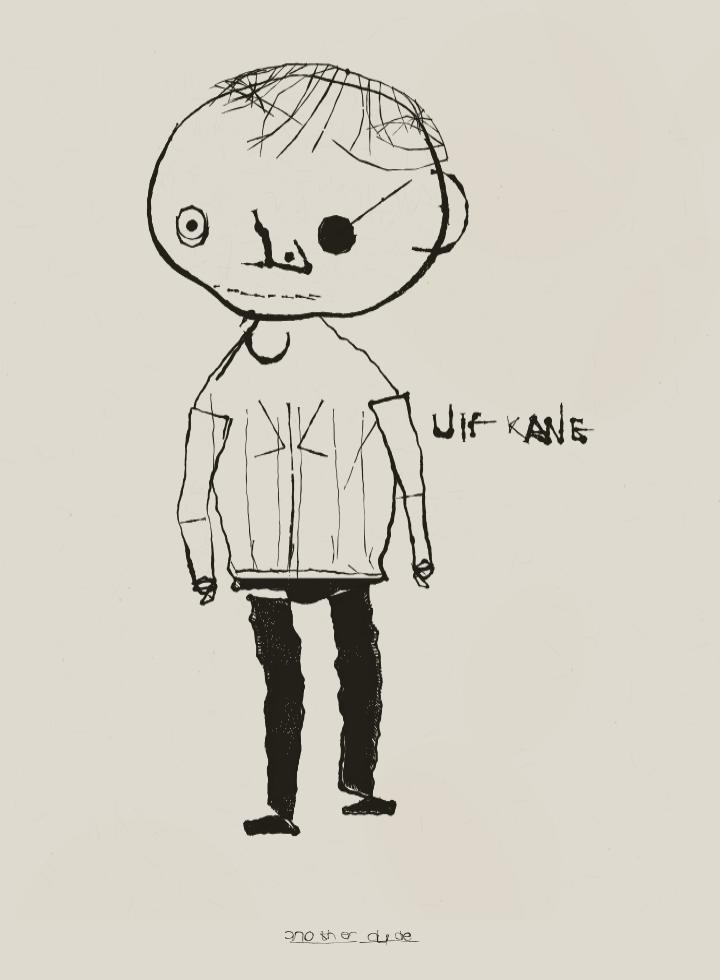
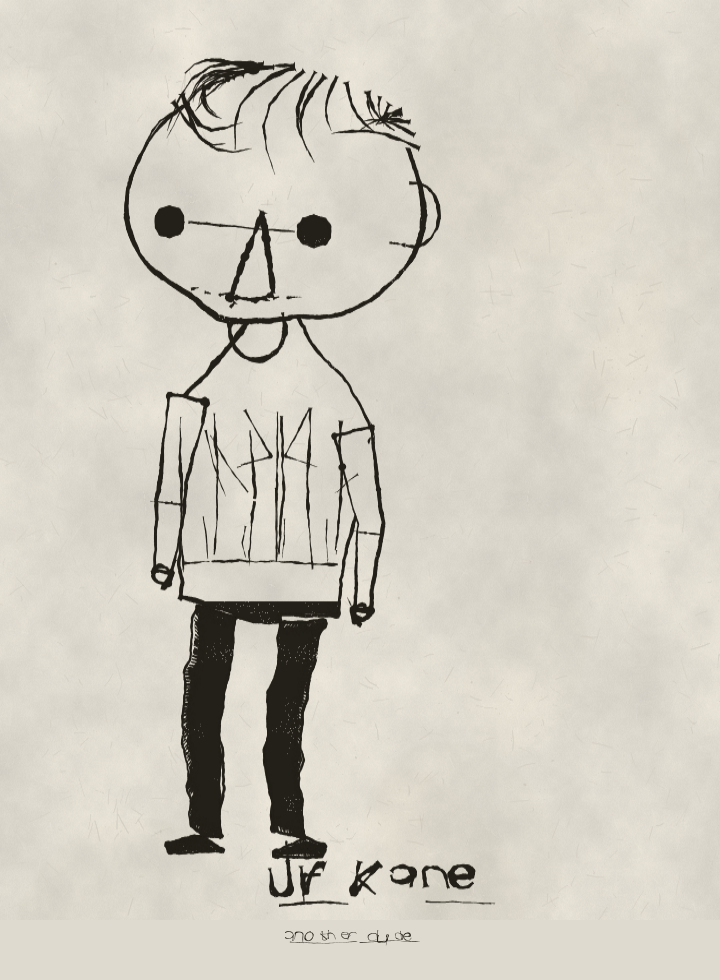
Gauntlet: hair edge as silhouette, nose length, eye variety, real paper
Four fixes the last critic round converged on.

- Where hair sits, the head line stops. A solid cap hid the cranium under
  its own fill, but hair laid as strokes has no fill, so the closed skull
  loop showed straight through and the strokes read as a fringe hung on a
  bald egg. The mass is now wiped to paper and re-fibred before the
  strokes go down, so the hair's outer edge is the silhouette.
- The nose bottoms out anywhere from a third to three quarters down the
  face, and every style reports where it ended so the mouth hangs off it.
  A fixed mouth height under a varying nose is what made forty different
  noses read as one face.
- The ring-with-dot eye had become a stamp of its own. Added shut eyes,
  squints pinched between two lids, heavy half-lids cutting the top off
  the iris, and bare pupils with no lid drawn; ring diameter now varies
  twice as widely and the two eyes disagree more often.
- Cap volume, reach and lean vary per seed on top of the style, so the
  same wedge does not appear at forty scales and rotations. Wrap is
  clamped: above ~1.05 the hairline goes round the back of the skull and
  the mass swallows the face.
- The paper was a flat digital field. Two octaves of slow mottle plus a
  fine tooth, measured against the reference: sd 3.84 against his 3.79.

Claude-Session: https://claude.ai/code/session_01RJWY9ufwnD6fjwW6ve4one

Changed region(s): [[0.1528, 0.0612, 0.6722, 0.9184], [0.3361, 0.7653, 0.4583, 0.949], [0.7028, 0.4286, 0.825, 0.4592]]

diff --git a/dude.js b/dude.js
@@ -399,11 +399,11 @@
     c.closePath();
     c.clip();
     // match the density of the paper pass exactly, or the patch reads darker
-    const n = Math.min(900, Math.round(area / 675));
+    const n = Math.min(1500, Math.round(area / 405));
     for (let i = 0; i < n; i++) {
       const a = rng.f(0, Math.PI * 2);
       const len = rng.f(3, 20);
-      c.strokeStyle = rng.chance(0.55) ? "rgba(74,60,40,0.03)" : "rgba(255,253,246,0.05)";
+      c.strokeStyle = rng.chance(0.55) ? "rgba(74,60,40,0.075)" : "rgba(255,253,246,0.11)";
       c.lineWidth = rng.f(0.4, 1.0);
       const x = rng.f(x0, x1);
       const y = rng.f(y0, y1);
@@ -413,7 +413,7 @@
       c.stroke();
     }
     for (let i = 0; i < Math.round(area / 145); i++) {
-      c.fillStyle = rng.chance(0.6) ? "rgba(48,36,22,0.032)" : "rgba(255,255,255,0.034)";
+      c.fillStyle = rng.chance(0.6) ? "rgba(48,36,22,0.06)" : "rgba(255,255,255,0.07)";
       c.fillRect(rng.f(x0, x1), rng.f(y0, y1), rng.f(0.3, 1.2), rng.f(0.25, 0.8));
     }
     c.restore();
@@ -515,11 +515,11 @@
       c.ellipse(rng.f(-40, w + 40), rng.f(-40, h + 40), rng.f(40, 190), rng.f(28, 130), rng.f(0, 6), 0, Math.PI * 2);
       c.fill();
     }
-    for (let i = 0; i < 900; i++) {
+    for (let i = 0; i < 1500; i++) {
       const a = rng.f(0, Math.PI * 2);
       const len = rng.f(3, 22);
       const dark = rng.chance(0.55);
-      c.strokeStyle = dark ? "rgba(74,60,40,0.03)" : "rgba(255,253,246,0.05)";
+      c.strokeStyle = dark ? "rgba(74,60,40,0.075)" : "rgba(255,253,246,0.11)";
       c.lineWidth = rng.f(0.4, 1.0);
       const x = rng.f(0, w);
       const y = rng.f(0, h);
@@ -534,7 +534,7 @@
       c.stroke();
     }
     for (let i = 0; i < 4200; i++) {
-      c.fillStyle = rng.chance(0.6) ? "rgba(48,36,22,0.032)" : "rgba(255,255,255,0.034)";
+      c.fillStyle = rng.chance(0.6) ? "rgba(48,36,22,0.06)" : "rgba(255,255,255,0.07)";
       c.fillRect(rng.f(0, w), rng.f(0, h), rng.f(0.3, 1.2), rng.f(0.25, 0.8));
     }
     for (let i = 0; i < 40; i++) {
@@ -567,12 +567,17 @@
         n = Math.imul(n ^ (n >>> 15), 3266489917);
         const u = ((n ^ (n >>> 13)) >>> 0) / 4294967296;
         if (lum > 214) {
-          if (u < 0.035) {
-            const k = 0.03 + u * 0.4;
-            d[p] = r - (r - 48) * k * 0.12;
-            d[p + 1] = g - (g - 36) * k * 0.12;
-            d[p + 2] = b - (b - 22) * k * 0.12;
-          }
+          // Paper is never one value. Two octaves of slow mottle plus a fine
+          // tooth: without this the ground reads as a flat digital field, and
+          // that alone gives the sheet away next to a photographed one.
+          const m =
+            (valueNoise(x * 0.011, y * 0.011, 9001) - 0.5) * 2 +
+            (valueNoise(x * 0.037, y * 0.037, 9109) - 0.5) * 1.1 +
+            (valueNoise(x * 0.13, y * 0.13, 9227) - 0.5) * 0.5;
+          const v = m * 9.2 + (u - 0.5) * 5.2;
+          d[p] = Math.max(0, Math.min(255, r + v));
+          d[p + 1] = Math.max(0, Math.min(255, g + v * 0.94));
+          d[p + 2] = Math.max(0, Math.min(255, b + v * 0.82));
           continue;
         }
         // paper tooth: the sheet is not flat, so the nib misses a little of it
@@ -1001,6 +1006,15 @@
   }
 
   function hairMass(skull, hull, rng, opt = {}) {
+    // per-seed volume and reach, on top of whatever the style asked for, so
+    // the same cap does not come out at forty scales and rotations
+    opt = Object.assign({}, opt, {
+      puff: (opt.puff ?? 0.05) * rng.f(0.6, 1.45),
+      // u spans (t-0.5)*PI*wrap*1.9, so wrap above ~1.05 sends the hairline
+      // round the back of the skull and the mass swallows the whole face
+      wrap: Math.min(1.05, (opt.wrap ?? 1.02) * rng.f(0.84, 1.08)),
+      sideBias: (opt.sideBias ?? 0) + rng.f(-0.1, 0.1),
+    });
     const front = hairline(skull, rng, opt);
     if (front.length < 3) return null;
     const a = front[0];
@@ -1089,6 +1103,14 @@
     if (!h) return;
     const { front, top } = h;
     const k = h._s / 100;
+    // A solid cap hides the cranium under its own fill. Hair laid as strokes
+    // has no fill, so the closed skull loop shows straight through it and the
+    // strokes read as a fringe hung on a bald egg. Take the head line out
+    // first: where hair sits, the hair's outer edge IS the silhouette.
+    if (opt.wipe) {
+      inkFill(c, rng, h.mass, PAPER, 1, 1.4 * k);
+      refibre(c, rng, h.mass);
+    }
     const lines = opt.lines ?? 30;
     const bow = opt.bow ?? 0.2;
     // one parting, and everything sweeps away from it
@@ -1172,7 +1194,9 @@
     if (style === "buzz") {
       const h = mk({ lineY: -0.5, recede: 0.05, puff: 0.03, wob: 0.03 });
       if (h) {
-        inkFill(c, rng, h.mass, color, 0.72, s * 0.014);
+        inkFill(c, rng, h.mass, PAPER, 1, s * 0.014);
+        refibre(c, rng, h.mass);
+        inkFill(c, rng, h.mass, color, 0.62, s * 0.014);
         inkPoly(c, rng, h.front, { w: s * 0.019, dry: 0.6 });
         inkPoly(c, rng, h.top, { w: s * 0.014, dry: 1.4 });
       }
@@ -1247,13 +1271,13 @@
     if (style === "thatch") {
       // no black at all: hair as laid strokes over an open crown
       const h = mk({ lineY: -0.46, recede: rng.f(-0.04, 0.14), sideBias: rng.f(-0.2, 0.2), puff: 0.05, wob: 0.05 });
-      if (h) combMass(c, rng, h, { lines: rng.i(30, 54), bow: rng.f(0.06, 0.3) });
+      if (h) combMass(c, rng, h, { lines: rng.i(30, 54), bow: rng.f(0.06, 0.3), wipe: true });
       return;
     }
 
     if (style === "comb") {
       const h = mk({ lineY: -0.5, recede: 0.13, sideBias: rng.sign() * 0.14, puff: 0.065, wob: 0.04 });
-      if (h) combMass(c, rng, h, { lines: rng.i(30, 48), bow: rng.f(0.1, 0.34) });
+      if (h) combMass(c, rng, h, { lines: rng.i(30, 48), bow: rng.f(0.1, 0.34), wipe: true });
       return;
     }
 
@@ -1366,8 +1390,8 @@
     const fy = skull.faceY || 0;
     const gap = skull.eyeGap ?? 0.36;
     // a pair of eyes is never a pair: different sizes, different heights
-    const kL = rng.f(0.82, 1.0);
-    const kR = rng.f(0.85, 1.0) * (rng.chance(0.28) ? 1.16 : 1);
+    const kL = rng.f(0.62, 1.3);
+    const kR = rng.f(0.62, 1.3) * (rng.chance(0.28) ? 1.2 : 1);
     const L = pin(skull, { x: -gap, y: -0.12 + fy + rng.f(-0.05, 0.03), z: 0.88 });
     const R = pin(skull, { x: gap, y: -0.12 + fy + rng.f(-0.03, 0.05), z: 0.88 });
     const showL = L.z > 0.02;
@@ -1391,6 +1415,28 @@
           // a lid cutting the top of the iris
           inkArc(c, rng, x, y - ry * k * 0.25, rx * k * 0.9 * sq, Math.PI + 0.35, -0.35, s * 0.016);
         }
+      } else if (kind === "closed") {
+        // shut: one curve and a lash or two
+        inkArc(c, rng, x, y, rx * k * 0.9 * sq, Math.PI + rng.f(0.15, 0.45), rng.f(-0.45, -0.15), s * 0.019);
+        if (rng.chance(0.5)) inkLine(c, rng, x - rx * k * 0.5, y + s * 0.02, x - rx * k * 0.75, y + s * 0.05, s * 0.012);
+      } else if (kind === "squint") {
+        // pinched between two lids, no ring at all
+        inkArc(c, rng, x, y + ry * k * 0.5, rx * k * sq, Math.PI + 0.4, -0.4, s * 0.02);
+        inkArc(c, rng, x, y - ry * k * 0.5, rx * k * sq, 0.45, Math.PI - 0.45, s * 0.017);
+        inkCirc(c, rng, x + gz * rx * k * 0.3 * sq, y, s * rng.f(0.022, 0.036) * k, s * 0.012, true);
+      } else if (kind === "half") {
+        // a heavy lid cutting the top third off the eye
+        almond(c, rng, p, rx * k, ry * k, false);
+        inkCirc(c, rng, x + gz * rx * k * 0.4 * sq, y + ry * k * 0.2, s * 0.04 * k, s * 0.013, true);
+        inkPoly(c, rng, [
+          { x: x - rx * k * 1.05 * sq, y: y - ry * k * 0.5 },
+          { x: x, y: y - ry * k * (0.95 + rng.f(-0.2, 0.2)) },
+          { x: x + rx * k * 1.05 * sq, y: y - ry * k * 0.45 },
+        ], { w: s * rng.f(0.022, 0.032), dry: 0.35 });
+      } else if (kind === "bare") {
+        // no lid drawn at all: a pupil sitting on the face
+        inkCirc(c, rng, x, y, s * rng.f(0.03, 0.055) * k, s * 0.016, true);
+        if (rng.chance(0.6)) inkArc(c, rng, x, y - ry * k * 0.4, rx * k * 0.8 * sq, Math.PI + 0.5, -0.5, s * 0.016);
       } else if (kind === "x") {
         const r = s * 0.1;
         inkLine(c, rng, x - r * sq, y - r, x + r * sq, y + r, s * 0.017);
@@ -1439,10 +1485,10 @@
       return;
     }
 
-    const kinds = ["dot", "open", "x", "slit", "angry"];
+    const kinds = ["open", "open", "half", "half", "squint", "squint", "closed", "bare", "bare", "dot", "x", "slit", "angry"];
     const k = type === "mix" ? rng.pick(kinds) : type;
     // one eye is occasionally a different animal from the other
-    const k2 = rng.chance(0.16) ? rng.pick(kinds) : k;
+    const k2 = rng.chance(0.3) ? rng.pick(kinds) : k;
     if (showL) eye(L, k, kL);
     if (showR) eye(R, k2, kR);
 
@@ -1510,7 +1556,7 @@
     ax = tx;
     ay = ty;
     const off = rng.f(-0.1, 0.03) * s * lean - s * rng.f(0.02, 0.09) * lean;
-    const drop = faceLen * rng.f(0.4, 0.62);
+    const drop = faceLen * rng.f(0.34, 0.78);
 
     const A = (t, lat) => {
       const px = -ay;
@@ -1533,7 +1579,7 @@
         inkPoly(c, rng, [wL, A(drop * 1.02, rng.f(-3, 3)), wR], { w: w * rng.f(0.6, 0.9), dry: 0.5 });
       }
       if (rng.chance(0.4)) inkCirc(c, rng, wR.x, wR.y, s * 0.02, w * 0.45, true);
-      return;
+      return { ax, ay, browP, base: drop };
     }
 
     if (style === "blob") {
@@ -1543,14 +1589,14 @@
       inkCirc(c, rng, t.x - s * 0.06 * lean, t.y + s * 0.03, s * rng.f(0.018, 0.03), w * 0.5, true);
       if (rng.chance(0.7)) inkCirc(c, rng, t.x + s * 0.07 * lean, t.y + s * 0.02, s * rng.f(0.015, 0.026), w * 0.45, true);
       if (rng.chance(0.5)) inkPoly(c, rng, [A(0, rng.f(-3, 3)), A(drop * 0.45, rng.f(-4, 4))], { w: w * 0.5, dry: 0.9 });
-      return;
+      return { ax, ay, browP, base: drop };
     }
 
     if (style === "button") {
       inkPoly(c, rng, [A(0, 0), A(drop * 0.55, rng.f(-2, 3))], { w: w * 0.75, dry: 0.6 });
       const t = A(drop, 0);
       inkCirc(c, rng, t.x, t.y, s * 0.085, w * 0.8);
-      return;
+      return { ax, ay, browP, base: drop + s * 0.085 };
     }
 
     // The long one: brow to tip in one run, but it BREAKS direction once at
@@ -1587,13 +1633,30 @@
       const far = A(drop - s * 0.008, bend - s * 0.1 * lean);
       inkCirc(c, rng, far.x, far.y, s * rng.f(0.012, 0.022), w * 0.4, true);
     }
+    return { ax, ay, browP, base: drop + hookDrop };
   }
 
-  function drawMouth(c, rng, skull, style) {
+  function drawMouth(c, rng, skull, style, nose) {
     const s = skull.s;
     const fy = (skull.faceY || 0) * 0.5;
-    const m = pin(skull, { x: rng.f(-0.06, 0.06) + Math.sin(skull.yaw) * 0.08, y: rng.f(0.54, 0.68) + fy, z: 0.78 });
-    if (m.z < -0.05) return;
+    let m;
+    if (nose) {
+      // A mouth sits under the nose it belongs to. Parking it at a fixed
+      // height while the nose length varies is what makes forty different
+      // noses read as one face.
+      const gap = s * rng.f(0.16, 0.42);
+      const off = s * rng.f(-0.09, 0.09);
+      m = skull.limit(
+        {
+          x: nose.browP.x + nose.ax * (nose.base + gap) - nose.ay * off,
+          y: nose.browP.y + nose.ay * (nose.base + gap) + nose.ax * off,
+        },
+        s * 0.14
+      );
+    } else {
+      m = pin(skull, { x: rng.f(-0.06, 0.06) + Math.sin(skull.yaw) * 0.08, y: rng.f(0.54, 0.68) + fy, z: 0.78 });
+    }
+    if (m.z !== undefined && m.z < -0.05) return;
     const x = m.x;
     const y = m.y;
     const w = s * rng.f(0.03, 0.048);
@@ -2393,7 +2456,7 @@
       "band", "messy",
       "recede", "recede", "bald", "bald",
     ];
-    const eyeStyles = ["open", "open", "open", "open", "dot", "dot", "slit", "angry", "x", "glasses", "glasses", "shades", "patch", "wink"];
+    const eyeStyles = ["mix", "mix", "mix", "mix", "mix", "open", "open", "half", "squint", "closed", "bare", "dot", "glasses", "glasses", "shades", "patch", "wink"];
     const noseStyles = ["long", "long", "long", "hook", "hook", "hook", "tri", "tri", "tri", "button", "button", "blob"];
     const mouthStyles = ["smile", "smile", "frown", "open", "open", "teeth", "smirk", "lips", "pucker", "line", "line"];
     const beardStyles = ["none", "none", "none", "stache", "goatee", "beard", "stubble"];
@@ -2475,8 +2538,8 @@
     drawHair(c, rng, skull, hull, dude.hair, dude.hairColor);
     drawBrows(c, rng, skull, dude.brows);
     drawEyes(c, rng, skull, dude.eyes);
-    drawNose(c, rng, skull, dude.nose, dude.noseHeavy);
-    drawMouth(c, rng, skull, dude.mouth);
+    const nose = drawNose(c, rng, skull, dude.nose, dude.noseHeavy);
+    drawMouth(c, rng, skull, dude.mouth, nose);
     drawFacialHair(c, rng, skull, dude.beard);
 
     // The name goes where there is room, the way a hand writes it in the gap
@@ -2543,8 +2606,8 @@
         drawHair(c, rng, skull, hull, d.hair, d.hairColor);
         drawBrows(c, rng, skull, d.brows);
         drawEyes(c, rng, skull, d.eyes);
-        drawNose(c, rng, skull, d.nose, d.noseHeavy);
-        drawMouth(c, rng, skull, d.mouth);
+        const nose = drawNose(c, rng, skull, d.nose, d.noseHeavy);
+        drawMouth(c, rng, skull, d.mouth, nose);
         drawFacialHair(c, rng, skull, d.beard);
         if (rng.chance(0.5)) drawNeck(c, rng, skull);
       }
